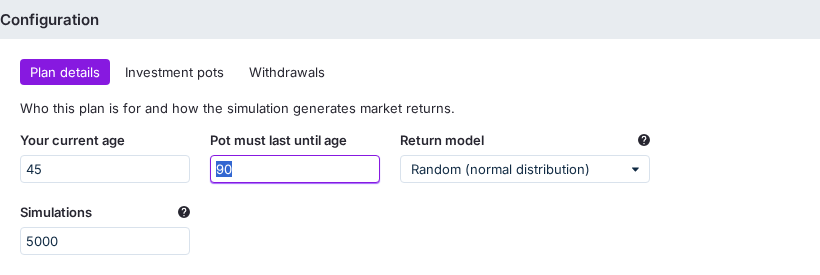
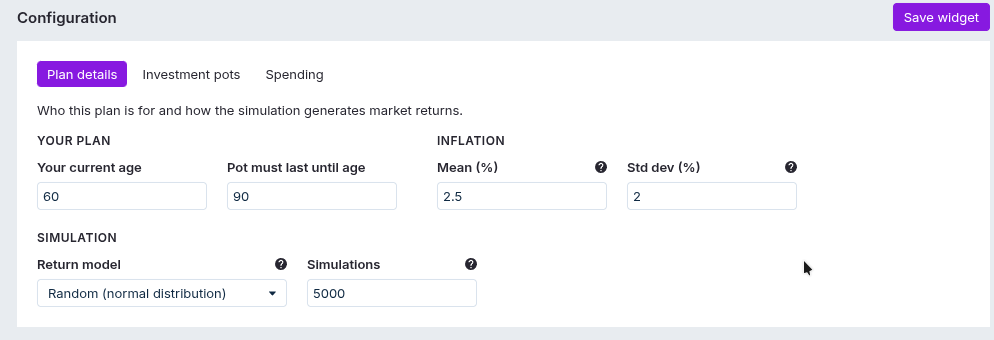
update some screenshots

diff --git a/packages/desktop-client/src/components/reports/reports/monte-carlo/MonteCarloSpendingPhases.tsx b/packages/desktop-client/src/components/reports/reports/monte-carlo/MonteCarloSpendingPhases.tsx
@@ -113,124 +113,135 @@ export function MonteCarloSpendingPhases({
         </Tooltip>
       </View>
 
-      <View style={{ ...styles.tableContainer, flex: 'unset' }}>
-        <TableHeader>
-          <Field width="flex" style={{ minWidth: PHASE_COLUMNS.name }}>
-            <Trans>Phase name</Trans>
-          </Field>
-          <Field width="flex" style={{ minWidth: PHASE_COLUMNS.fromAge }}>
-            <Trans>From age</Trans>
-          </Field>
-          <Field width="flex" style={{ minWidth: PHASE_COLUMNS.until }}>
-            <Trans>Until</Trans>
-          </Field>
-          <Field width="flex" style={{ minWidth: PHASE_COLUMNS.spending }}>
-            <Trans>Yearly spending</Trans>
-          </Field>
-          <Field width={PHASE_COLUMNS.remove} />
-        </TableHeader>
+      <View
+        style={{
+          ...styles.tableContainer,
+          ...styles.horizontalScrollbar,
+          flex: 'unset',
+          // Scroll sideways when the columns' minimum widths don't fit,
+          // instead of clipping the end of the rows
+          overflowX: 'auto',
+        }}
+      >
+        <View style={{ minWidth: 'fit-content' }}>
+          <TableHeader>
+            <Field width="flex" style={{ minWidth: PHASE_COLUMNS.name }}>
+              <Trans>Phase name</Trans>
+            </Field>
+            <Field width="flex" style={{ minWidth: PHASE_COLUMNS.fromAge }}>
+              <Trans>From age</Trans>
+            </Field>
+            <Field width="flex" style={{ minWidth: PHASE_COLUMNS.until }}>
+              <Trans>Until</Trans>
+            </Field>
+            <Field width="flex" style={{ minWidth: PHASE_COLUMNS.spending }}>
+              <Trans>Yearly spending</Trans>
+            </Field>
+            <Field width={PHASE_COLUMNS.remove} />
+          </TableHeader>
 
-        {phases.map((phase, index) => {
-          const nextPhase = phases[index + 1];
-          return (
-            <Row
-              key={phase.id}
-              collapsed
-              height={PHASE_ROW_HEIGHT}
-              style={{
-                backgroundColor: theme.tableBackground,
-                ':hover': { backgroundColor: theme.tableRowBackgroundHover },
-              }}
-            >
-              <Field
-                width="flex"
-                style={{ minWidth: PHASE_COLUMNS.name }}
-                truncate={false}
+          {phases.map((phase, index) => {
+            const nextPhase = phases[index + 1];
+            return (
+              <Row
+                key={phase.id}
+                collapsed
+                height={PHASE_ROW_HEIGHT}
+                style={{
+                  backgroundColor: theme.tableBackground,
+                  ':hover': { backgroundColor: theme.tableRowBackgroundHover },
+                }}
               >
-                <Input
-                  // Uncontrolled on purpose: committing on blur keeps typing
-                  // snappy since every config change re-runs the simulation
-                  defaultValue={phase.name}
-                  placeholder={t('Phase {{number}}', { number: index + 1 })}
-                  onUpdate={newName => {
-                    if (newName !== phase.name) {
-                      updatePhase(phase.id, { name: newName });
-                    }
-                  }}
-                />
-              </Field>
+                <Field
+                  width="flex"
+                  style={{ minWidth: PHASE_COLUMNS.name }}
+                  truncate={false}
+                >
+                  <Input
+                    // Uncontrolled on purpose: committing on blur keeps typing
+                    // snappy since every config change re-runs the simulation
+                    defaultValue={phase.name}
+                    placeholder={t('Phase {{number}}', { number: index + 1 })}
+                    onUpdate={newName => {
+                      if (newName !== phase.name) {
+                        updatePhase(phase.id, { name: newName });
+                      }
+                    }}
+                  />
+                </Field>
 
-              <Field
-                width="flex"
-                style={{ minWidth: PHASE_COLUMNS.fromAge }}
-                truncate={false}
-              >
-                {index === 0 ? (
+                <Field
+                  width="flex"
+                  style={{ minWidth: PHASE_COLUMNS.fromAge }}
+                  truncate={false}
+                >
+                  {index === 0 ? (
+                    <Text style={{ color: theme.tableText }}>
+                      {t('Now ({{age}})', { age: currentAge })}
+                    </Text>
+                  ) : (
+                    <MonteCarloNumberInput
+                      value={phase.fromAge}
+                      roundToInteger
+                      min={currentAge + 1}
+                      max={targetAge}
+                      step={1}
+                      onCommit={newValue =>
+                        updatePhase(phase.id, {
+                          fromAge: newValue ?? currentAge + 1,
+                        })
+                      }
+                    />
+                  )}
+                </Field>
+
+                <Field
+                  width="flex"
+                  style={{ minWidth: PHASE_COLUMNS.until }}
+                  truncate={false}
+                >
                   <Text style={{ color: theme.tableText }}>
-                    {t('Now ({{age}})', { age: currentAge })}
+                    {nextPhase?.fromAge != null
+                      ? t('Age {{age}}', { age: nextPhase.fromAge - 1 })
+                      : t('Onwards')}
                   </Text>
-                ) : (
-                  <MonteCarloNumberInput
-                    value={phase.fromAge}
-                    roundToInteger
-                    min={currentAge + 1}
-                    max={targetAge}
-                    step={1}
-                    onCommit={newValue =>
+                </Field>
+
+                <Field
+                  width="flex"
+                  style={{ minWidth: PHASE_COLUMNS.spending }}
+                  truncate={false}
+                >
+                  <FinancialInput
+                    value={phase.annualWithdrawal}
+                    onUpdate={value =>
                       updatePhase(phase.id, {
-                        fromAge: newValue ?? currentAge + 1,
+                        annualWithdrawal: Math.max(0, value),
                       })
                     }
                   />
-                )}
-              </Field>
+                </Field>
 
-              <Field
-                width="flex"
-                style={{ minWidth: PHASE_COLUMNS.until }}
-                truncate={false}
-              >
-                <Text style={{ color: theme.tableText }}>
-                  {nextPhase?.fromAge != null
-                    ? t('Age {{age}}', { age: nextPhase.fromAge - 1 })
-                    : t('Onwards')}
-                </Text>
-              </Field>
-
-              <Field
-                width="flex"
-                style={{ minWidth: PHASE_COLUMNS.spending }}
-                truncate={false}
-              >
-                <FinancialInput
-                  value={phase.annualWithdrawal}
-                  onUpdate={value =>
-                    updatePhase(phase.id, {
-                      annualWithdrawal: Math.max(0, value),
-                    })
-                  }
-                />
-              </Field>
-
-              <Field
-                width={PHASE_COLUMNS.remove}
-                truncate={false}
-                style={{ alignItems: 'center' }}
-              >
-                {phases.length > 1 && (
-                  <Button
-                    variant="bare"
-                    aria-label={t('Remove phase')}
-                    onPress={() => removePhase(phase.id)}
-                    style={{ padding: 6 }}
-                  >
-                    <SvgDelete width={12} height={12} />
-                  </Button>
-                )}
-              </Field>
-            </Row>
-          );
-        })}
+                <Field
+                  width={PHASE_COLUMNS.remove}
+                  truncate={false}
+                  style={{ alignItems: 'center' }}
+                >
+                  {phases.length > 1 && (
+                    <Button
+                      variant="bare"
+                      aria-label={t('Remove phase')}
+                      onPress={() => removePhase(phase.id)}
+                      style={{ padding: 6 }}
+                    >
+                      <SvgDelete width={12} height={12} />
+                    </Button>
+                  )}
+                </Field>
+              </Row>
+            );
+          })}
+        </View>
       </View>
 
       <View style={{ flexDirection: 'row' }}>

diff --git a/packages/desktop-client/src/components/reports/reports/monte-carlo/MonteCarloConfiguration.tsx b/packages/desktop-client/src/components/reports/reports/monte-carlo/MonteCarloConfiguration.tsx
@@ -407,36 +407,47 @@ export function MonteCarloConfiguration({
           tab alongside these. */}
       {activeTab === 'pots' && (
         <View>
-          <View style={{ ...styles.tableContainer, flex: 'unset' }}>
-            <MonteCarloPotsTableHeader />
-            <GridList
-              aria-label={t('Investment pots')}
-              // Without this, typing in the pot fields moves the list
-              // highlight to whichever pot name matches the keystroke
-              disallowTypeAhead
-              // Let Tab move between the fields inside pot rows instead of
-              // jumping out of the list (default ARIA grid behavior)
-              keyboardNavigationBehavior="tab"
-              items={config.pots}
-              dependencies={[config, onConfigChange]}
-              dragAndDropHooks={dragAndDropHooks}
-            >
-              {pot => (
-                <MonteCarloPotConfiguration
-                  key={pot.id}
-                  pot={pot}
-                  potNumber={config.pots.indexOf(pot) + 1}
-                  canRemove={config.pots.length > 1}
-                  usesHistoricalReturns={config.returnModel !== 'normal'}
-                  onPotChange={changes => onPotChange(pot.id, changes)}
-                  onRemove={() =>
-                    onConfigChange({
-                      pots: config.pots.filter(other => other.id !== pot.id),
-                    })
-                  }
-                />
-              )}
-            </GridList>
+          <View
+            style={{
+              ...styles.tableContainer,
+              ...styles.horizontalScrollbar,
+              flex: 'unset',
+              // Scroll sideways when the columns' minimum widths don't fit,
+              // instead of clipping the end of the rows
+              overflowX: 'auto',
+            }}
+          >
+            <View style={{ minWidth: 'fit-content' }}>
+              <MonteCarloPotsTableHeader />
+              <GridList
+                aria-label={t('Investment pots')}
+                // Without this, typing in the pot fields moves the list
+                // highlight to whichever pot name matches the keystroke
+                disallowTypeAhead
+                // Let Tab move between the fields inside pot rows instead of
+                // jumping out of the list (default ARIA grid behavior)
+                keyboardNavigationBehavior="tab"
+                items={config.pots}
+                dependencies={[config, onConfigChange]}
+                dragAndDropHooks={dragAndDropHooks}
+              >
+                {pot => (
+                  <MonteCarloPotConfiguration
+                    key={pot.id}
+                    pot={pot}
+                    potNumber={config.pots.indexOf(pot) + 1}
+                    canRemove={config.pots.length > 1}
+                    usesHistoricalReturns={config.returnModel !== 'normal'}
+                    onPotChange={changes => onPotChange(pot.id, changes)}
+                    onRemove={() =>
+                      onConfigChange({
+                        pots: config.pots.filter(other => other.id !== pot.id),
+                      })
+                    }
+                  />
+                )}
+              </GridList>
+            </View>
           </View>
           <View style={{ flexDirection: 'row', marginTop: 10 }}>
             <Button

diff --git a/packages/docs/docs/reports/monte-carlo-analysis.md b/packages/docs/docs/reports/monte-carlo-analysis.md
@@ -40,8 +40,6 @@ The configuration area at the top of the report is organized into three tabs.
 
 ### Plan Details
 
-<!-- TODO screenshot: this image predates the grouped layout (Your plan / Inflation / Simulation) - retake the Plan Details tab screenshot once a preview deploy with the groups is available. -->
-
 ![The Plan Details tab](/img/reports/monte-carlo-plan-details.png)
 
 The tab is organized into three small groups - **Your plan**, **Inflation** and **Simulation**:
@@ -77,8 +75,6 @@ The access age setting is what lets the report model the classic "bridge gap": r
 :::
 
 ### Spending
-
-<!-- TODO screenshot: this image predates the spending phases feature - retake the Spending tab screenshot (showing the phases list) once a preview deploy with spending phases is available. -->
 
 ![The Spending tab](/img/reports/monte-carlo-withdrawals.png)
 